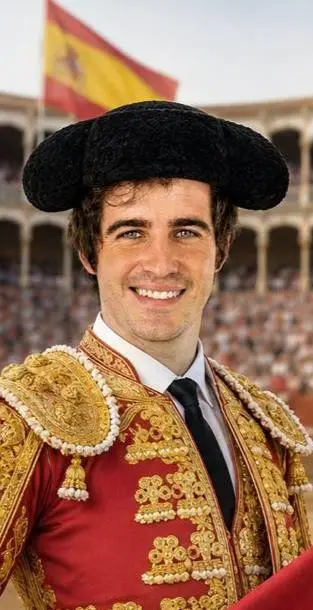
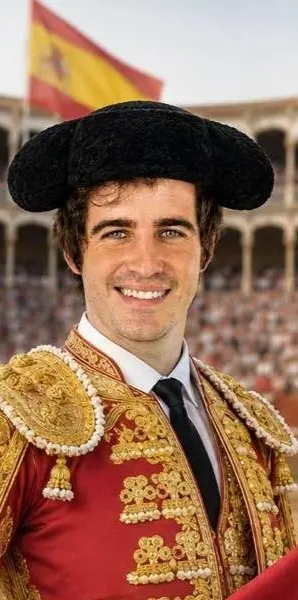
core: only 2 languages

diff --git a/index.html b/index.html
@@ -1,14 +1,14 @@
 <!doctype html>
-<html lang="es">
+<html lang="en-US">
 <head>
     <meta charset="utf-8">
     <meta name="viewport" content="width=device-width, initial-scale=1">
-    <meta name="description" content="Landing CV bilingue para Pablo, desarrollador web orientado a producto.">
+    <meta name="description" content="Bilingual CV landing page for Pablo, a product-minded web developer.">
     <title>Pablo | CV Landing</title>
     <link rel="stylesheet" href="./index.css">
     <script src="./index.js" defer></script>
 </head>
-<body>
+<body data-locale="us">
     <header class="site-header">
         <a class="brand" href="#top" aria-label="Pablo CV">
             <span class="brand-mark" aria-hidden="true">P</span>
@@ -16,74 +16,74 @@
         </a>
 
         <nav class="site-nav" aria-label="Primary navigation">
-            <a href="#profile" data-i18n="navProfile">Perfil</a>
-            <a href="#experience" data-i18n="navExperience">Experiencia</a>
+            <a href="#profile" data-i18n="navProfile">Profile</a>
+            <a href="#experience" data-i18n="navExperience">Experience</a>
             <a href="#skills" data-i18n="navSkills">Skills</a>
-            <a href="#contact" data-i18n="navContact">Contacto</a>
+            <a href="#contact" data-i18n="navContact">Contact</a>
         </nav>
 
         <div class="language-switcher" role="group" aria-label="Language selector">
-            <button class="language-button" type="button" data-language="es" aria-pressed="true">ES</button>
-            <button class="language-button" type="button" data-language="us" aria-pressed="false">US</button>
+            <button class="language-button" type="button" data-language="us" aria-pressed="true">US</button>
+            <button class="language-button" type="button" data-language="es" aria-pressed="false">ES</button>
         </div>
     </header>
 
     <main id="top">
         <section class="hero">
             <div class="hero-copy reveal">
-                <p class="eyebrow" data-i18n="eyebrow">CV landing bilingue</p>
+                <p class="eyebrow" data-i18n="eyebrow">Bilingual CV landing</p>
                 <h1>
                     <span data-i18n="heroName">Pablo</span>
-                    <span data-i18n="heroRole">Desarrollador web orientado a producto</span>
+                    <span data-i18n="heroRole">Product-minded web developer</span>
                 </h1>
                 <p class="hero-summary" data-i18n="heroSummary">
-                    Diseno y desarrollo experiencias web claras, rapidas y faciles de mantener, con foco en producto, detalle visual y entrega real.
+                    I design and build clear, fast, maintainable web experiences with product focus, visual care, and real delivery discipline.
                 </p>
 
                 <div class="hero-actions" aria-label="Main actions">
                     <a class="button button-primary" href="mailto:pablo@example.com">
-                        <span data-i18n="primaryAction">Hablemos</span>
+                        <span data-i18n="primaryAction">Email me</span>
                         <span class="button-icon" aria-hidden="true">-&gt;</span>
                     </a>
                     <a class="button button-secondary" href="#experience">
-                        <span data-i18n="secondaryAction">Ver experiencia</span>
+                        <span data-i18n="secondaryAction">View experience</span>
                     </a>
                 </div>
 
                 <div class="signal-grid" aria-label="Professional focus">
                     <div>
                         <strong data-i18n="stat1Value">Frontend</strong>
-                        <span data-i18n="stat1Label">Interfaces responsivas</span>
+                        <span data-i18n="stat1Label">Responsive interfaces</span>
                     </div>
                     <div>
-                        <strong data-i18n="stat2Value">Producto</strong>
-                        <span data-i18n="stat2Label">Decisiones medibles</span>
+                        <strong data-i18n="stat2Value">Product</strong>
+                        <span data-i18n="stat2Label">Measurable decisions</span>
                     </div>
                     <div>
                         <strong data-i18n="stat3Value">AI</strong>
-                        <span data-i18n="stat3Label">Automatizacion aplicada</span>
+                        <span data-i18n="stat3Label">Applied automation</span>
                     </div>
                 </div>
             </div>
 
             <aside class="profile-stage reveal" aria-labelledby="profile-caption-title">
                 <div class="portrait-frame">
-                    <img id="profileImage" src="./assets/profile-es.webp" width="313" height="610" alt="Retrato de Pablo para la version espanola">
+                    <img id="profileImage" src="./assets/profile-us.webp" width="306" height="610" alt="Portrait of Pablo for the US version">
                 </div>
                 <div class="profile-caption">
-                    <p class="profile-language" id="profile-caption-title" data-i18n="profileTitle">Modo ES</p>
-                    <p id="profileReference" data-i18n="profileReference">Criterio claro, ritmo mediterraneo y producto listo para salir.</p>
+                    <p class="profile-language" id="profile-caption-title" data-i18n="profileTitle">US mode</p>
+                    <p id="profileReference" data-i18n="profileReference">Clear async writing, global context, and delivery without theatre.</p>
                 </div>
             </aside>
         </section>
 
         <section class="content-section" id="profile">
             <div class="section-heading reveal">
-                <p class="overline" data-i18n="sectionProfileEyebrow">Perfil</p>
+                <p class="overline" data-i18n="sectionProfileEyebrow">Profile</p>
                 <div>
-                    <h2 data-i18n="sectionProfileTitle">Un CV que funciona como conversacion.</h2>
+                    <h2 data-i18n="sectionProfileTitle">A CV that behaves like a conversation.</h2>
                     <p data-i18n="sectionProfileIntro">
-                        La pagina resume forma de trabajar, criterio tecnico y energia visual en un formato directo para recruiters, clientes y equipos.
+                        The page compresses working style, technical judgment, and visual energy into a direct format for recruiters, clients, and teams.
                     </p>
                 </div>
             </div>
@@ -91,53 +91,53 @@
             <div class="intro-grid">
                 <article class="feature-card reveal">
                     <span class="feature-index">01</span>
-                    <h3 data-i18n="highlight1Title">Pensamiento de producto</h3>
-                    <p data-i18n="highlight1Body">Conecto objetivos, usuarios y restricciones antes de escribir codigo.</p>
+                    <h3 data-i18n="highlight1Title">Product thinking</h3>
+                    <p data-i18n="highlight1Body">I connect goals, users, and constraints before writing code.</p>
                 </article>
                 <article class="feature-card reveal">
                     <span class="feature-index">02</span>
-                    <h3 data-i18n="highlight2Title">Frontend cuidado</h3>
-                    <p data-i18n="highlight2Body">Sistemas UI claros, accesibles y mantenibles para crecer sin friccion.</p>
+                    <h3 data-i18n="highlight2Title">Careful frontend</h3>
+                    <p data-i18n="highlight2Body">Clear, accessible, maintainable UI systems that can grow without friction.</p>
                 </article>
                 <article class="feature-card reveal">
                     <span class="feature-index">03</span>
-                    <h3 data-i18n="highlight3Title">Entrega pragmatica</h3>
-                    <p data-i18n="highlight3Body">Iteraciones cortas, demos frecuentes y documentacion util para decidir mejor.</p>
+                    <h3 data-i18n="highlight3Title">Pragmatic delivery</h3>
+                    <p data-i18n="highlight3Body">Short iterations, frequent demos, and useful documentation for better decisions.</p>
                 </article>
             </div>
         </section>
 
         <section class="content-section" id="experience">
             <div class="section-heading reveal">
-                <p class="overline" data-i18n="sectionExperienceEyebrow">Experiencia</p>
+                <p class="overline" data-i18n="sectionExperienceEyebrow">Experience</p>
                 <div>
-                    <h2 data-i18n="sectionExperienceTitle">Trabajo presentado por impacto, no por ruido.</h2>
+                    <h2 data-i18n="sectionExperienceTitle">Work presented by impact, not noise.</h2>
                     <p data-i18n="sectionExperienceIntro">
-                        Estos bloques son editables: sustituyelos por proyectos reales, metricas y enlaces cuando tengas el contenido definitivo.
+                        These blocks are editable: replace them with real projects, metrics, and links once the final content is ready.
                     </p>
                 </div>
             </div>
 
             <div class="timeline">
                 <article class="timeline-item reveal">
-                    <p class="timeline-date" data-i18n="experience1Date">Actualidad</p>
+                    <p class="timeline-date" data-i18n="experience1Date">Current</p>
                     <div>
-                        <h3 data-i18n="experience1Title">Interfaces de producto para equipos digitales</h3>
-                        <p data-i18n="experience1Body">Diseno de flujos, componentes y paginas que reducen complejidad y aceleran decisiones.</p>
+                        <h3 data-i18n="experience1Title">Product interfaces for digital teams</h3>
+                        <p data-i18n="experience1Body">Flow, component, and page design that reduces complexity and speeds up decisions.</p>
                     </div>
                 </article>
                 <article class="timeline-item reveal">
-                    <p class="timeline-date" data-i18n="experience2Date">Proyecto destacado</p>
+                    <p class="timeline-date" data-i18n="experience2Date">Featured project</p>
                     <div>
-                        <h3 data-i18n="experience2Title">Dashboards y automatizacion aplicada</h3>
-                        <p data-i18n="experience2Body">Integracion de datos, estados vacios y acciones guiadas para operaciones mas claras.</p>
+                        <h3 data-i18n="experience2Title">Dashboards and applied automation</h3>
+                        <p data-i18n="experience2Body">Data integration, empty states, and guided actions for clearer operations.</p>
                     </div>
                 </article>
                 <article class="timeline-item reveal">
-                    <p class="timeline-date" data-i18n="experience3Date">Base tecnica</p>
+                    <p class="timeline-date" data-i18n="experience3Date">Technical base</p>
                     <div>
-                        <h3 data-i18n="experience3Title">Sistemas visuales escalables</h3>
-                        <p data-i18n="experience3Body">Estructura CSS, tokens, patrones responsive y componentes preparados para evolucionar.</p>
+                        <h3 data-i18n="experience3Title">Scalable visual systems</h3>
+                        <p data-i18n="experience3Body">CSS structure, tokens, responsive patterns, and components ready to evolve.</p>
                     </div>
                 </article>
             </div>
@@ -147,9 +147,9 @@
             <div class="section-heading reveal">
                 <p class="overline" data-i18n="sectionSkillsEyebrow">Skills</p>
                 <div>
-                    <h2 data-i18n="sectionSkillsTitle">Stack ligero, criterio fuerte.</h2>
+                    <h2 data-i18n="sectionSkillsTitle">Light stack, strong judgment.</h2>
                     <p data-i18n="sectionSkillsIntro">
-                        La landing esta hecha sin build step para ser facil de revisar, publicar y personalizar.
+                        The landing has no build step, so it is easy to review, publish, and customize.
                     </p>
                 </div>
             </div>
@@ -158,25 +158,25 @@
                 <article class="skill-group reveal">
                     <h3 data-i18n="skill1Title">Frontend</h3>
                     <ul>
-                        <li data-i18n="skill1A">HTML semantico</li>
-                        <li data-i18n="skill1B">CSS responsive</li>
-                        <li data-i18n="skill1C">JavaScript modular</li>
+                        <li data-i18n="skill1A">Semantic HTML</li>
+                        <li data-i18n="skill1B">Responsive CSS</li>
+                        <li data-i18n="skill1C">Modular JavaScript</li>
                     </ul>
                 </article>
                 <article class="skill-group reveal">
-                    <h3 data-i18n="skill2Title">Producto</h3>
+                    <h3 data-i18n="skill2Title">Product</h3>
                     <ul>
-                        <li data-i18n="skill2A">Priorizacion</li>
-                        <li data-i18n="skill2B">Metrica y narrativa</li>
-                        <li data-i18n="skill2C">Prototipado rapido</li>
+                        <li data-i18n="skill2A">Prioritization</li>
+                        <li data-i18n="skill2B">Metrics and narrative</li>
+                        <li data-i18n="skill2C">Fast prototyping</li>
                     </ul>
                 </article>
                 <article class="skill-group reveal">
-                    <h3 data-i18n="skill3Title">Colaboracion</h3>
+                    <h3 data-i18n="skill3Title">Collaboration</h3>
                     <ul>
-                        <li data-i18n="skill3A">Comunicacion async</li>
-                        <li data-i18n="skill3B">Documentacion clara</li>
-                        <li data-i18n="skill3C">Handoffs accionables</li>
+                        <li data-i18n="skill3A">Async communication</li>
+                        <li data-i18n="skill3B">Clear documentation</li>
+                        <li data-i18n="skill3C">Actionable handoffs</li>
                     </ul>
                 </article>
             </div>
@@ -184,14 +184,14 @@
 
         <section class="content-section contact-section" id="contact">
             <div class="contact-panel reveal">
-                <p class="overline" data-i18n="sectionContactEyebrow">Contacto</p>
-                <h2 data-i18n="sectionContactTitle">Trabajemos en algo que merezca ser usado.</h2>
+                <p class="overline" data-i18n="sectionContactEyebrow">Contact</p>
+                <h2 data-i18n="sectionContactTitle">Let us build something worth using.</h2>
                 <p data-i18n="sectionContactIntro">
-                    Actualiza estos enlaces con tu email, LinkedIn, GitHub o portfolio y deja esta seccion lista para convertir visitas en conversaciones.
+                    Update these links with your email, LinkedIn, GitHub, or portfolio and leave this section ready to turn visits into conversations.
                 </p>
                 <div class="contact-actions">
                     <a class="button button-primary" href="mailto:pablo@example.com">
-                        <span data-i18n="emailAction">Enviar email</span>
+                        <span data-i18n="emailAction">Email me</span>
                     </a>
                     <a class="button button-secondary" href="https://www.linkedin.com/" target="_blank" rel="noreferrer">
                         <span data-i18n="linkedinAction">LinkedIn</span>
@@ -205,7 +205,7 @@
     </main>
 
     <footer class="site-footer">
-        <p data-i18n="footerText">CV landing vivo, bilingue y preparado para evolucionar con contenido real.</p>
+        <p data-i18n="footerText">A living, bilingual CV landing page ready to evolve with real content.</p>
     </footer>
 </body>
 </html>

diff --git a/index.js b/index.js
@@ -1,12 +1,12 @@
 const languageNames = {
-    es: "Espanol",
     us: "US English",
+    es: "Espanol",
 };
 
 const profileThemes = {
     es: {
         image: "./assets/profile-es.webp",
-        width: 313,
+        width: 306,
         height: 610,
         accent: "#0f7f70",
         accentRgb: "15 127 112",
@@ -15,7 +15,7 @@ const profileThemes = {
     us: {
         image: "./assets/profile-us.webp",
         width: 306,
-        height: 613,
+        height: 610,
         accent: "#275ca8",
         accentRgb: "39 92 168",
         strong: "#cf3f49",
@@ -160,6 +160,8 @@ const content = {
 };
 
 const supportedLanguages = Object.keys(content);
+const defaultLanguage = "us";
+const languageStorageKey = "cv-language-v2";
 const documentLanguages = {
     es: "es",
     us: "en-US",
@@ -200,7 +202,7 @@ function normalizeLanguage(language) {
         return "us";
     }
 
-    return supportedLanguages.includes(language) ? language : "es";
+    return supportedLanguages.includes(language) ? language : defaultLanguage;
 }
 
 function setLanguage(language) {
@@ -229,7 +231,7 @@ function setLanguage(language) {
     });
 
     try {
-        window.localStorage.setItem("cv-language", nextLanguage);
+        window.localStorage.setItem(languageStorageKey, nextLanguage);
     } catch {
         // The page still works when storage is blocked.
     }
@@ -237,7 +239,7 @@ function setLanguage(language) {
 
 function getInitialLanguage() {
     try {
-        const savedLanguage = window.localStorage.getItem("cv-language");
+        const savedLanguage = window.localStorage.getItem(languageStorageKey);
 
         if (savedLanguage) {
             const normalizedSavedLanguage = normalizeLanguage(savedLanguage);
@@ -247,8 +249,7 @@ function getInitialLanguage() {
         // Ignore storage errors and use the browser language.
     }
 
-    const browserLanguage = window.navigator.language.slice(0, 2).toLowerCase();
-    return normalizeLanguage(browserLanguage);
+    return defaultLanguage;
 }
 
 languageButtons.forEach((button) => {

diff --git a/index.css b/index.css
@@ -4,11 +4,11 @@
     --ink: #17202a;
     --muted: #5e6875;
     --line: #d9ddd5;
-    --accent: #0f7f70;
-    --accent-rgb: 15 127 112;
-    --accent-strong: #e0523f;
-    --portrait-width: 313px;
-    --portrait-ratio: 313 / 610;
+    --accent: #275ca8;
+    --accent-rgb: 39 92 168;
+    --accent-strong: #cf3f49;
+    --portrait-width: 306px;
+    --portrait-ratio: 306 / 610;
     --sun: #f4b942;
     --shadow: 0 22px 60px rgb(23 32 42 / 0.12);
     --header-height: 76px;
@@ -47,12 +47,12 @@ body::before {
     pointer-events: none;
 }
 
-body[data-locale="us"] {
-    --accent: #275ca8;
-    --accent-rgb: 39 92 168;
-    --accent-strong: #cf3f49;
+body[data-locale="es"] {
+    --accent: #0f7f70;
+    --accent-rgb: 15 127 112;
+    --accent-strong: #e0523f;
     --portrait-width: 306px;
-    --portrait-ratio: 306 / 613;
+    --portrait-ratio: 306 / 610;
 }
 
 a {
